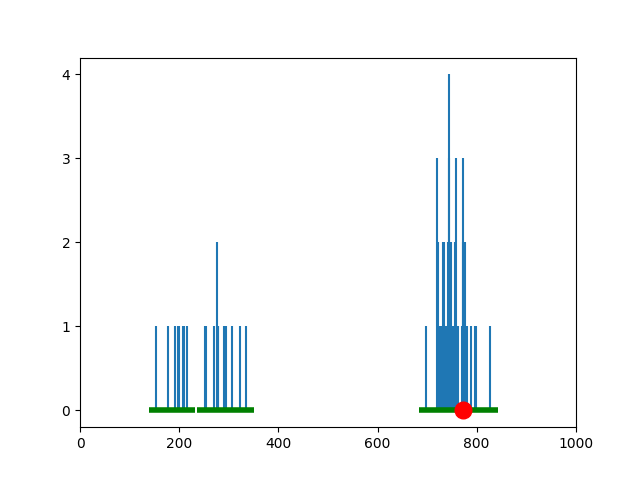
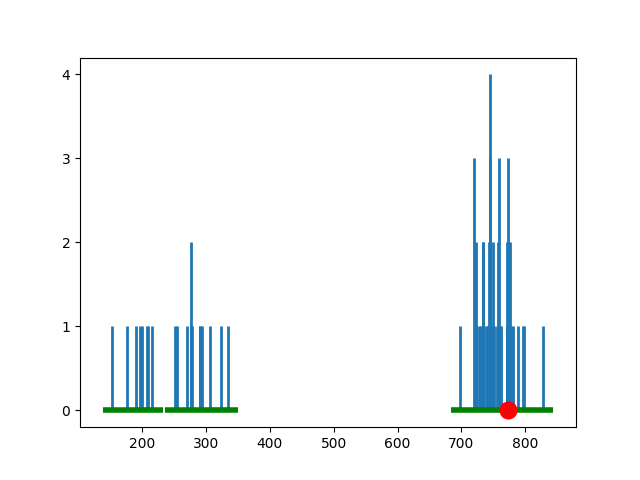
do not use stem()

diff --git a/lib/conformal.py b/lib/conformal.py
@@ -58,9 +58,9 @@ def plot(z, G, x, ax = None):
     if ax is None:
         fig, ax = plt.subplots()
     ax.yaxis.set_major_locator(MaxNLocator(integer=True))
-    ax.set_xlim([-1, M + 1])
-    ax.stem(cnt.keys(), cnt.values(), linefmt = '-', markerfmt = ' ', basefmt = ' ')
+    for a, b in cnt.items():
+        ax.vlines(x=a, ymin=0, ymax=b, linewidth=2)
     for a, b in inter:
-        ax.hlines(y = 0, xmin = a, xmax = b, label = 'x', linewidth = 4, color = 'green')
-    ax.plot(x, 0, color = 'red', marker = 'o', markersize = 12)
+        ax.hlines(y=0, xmin=a, xmax=b, label='x', linewidth=4, color='green')
+    ax.plot(x, 0, color='red', marker='o', markersize=12)
     return ax
